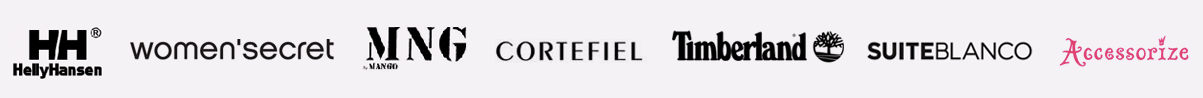
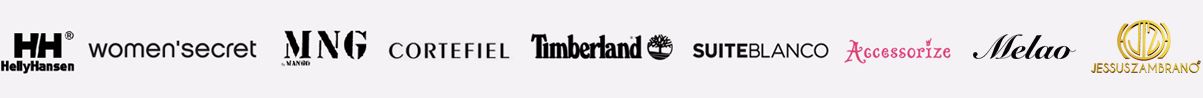
Agregada nuevas marcas a como funciona

Changed region(s): [[0.0, 0.2143, 1.0, 0.7959]]

diff --git a/protected/views/site/comofunciona.php b/protected/views/site/comofunciona.php
@@ -34,7 +34,7 @@ Yii::app()->clientScript->registerMetaTag('Personaling, Mango, Timberland, perso
 	<section class="seccion2">
 		<div class="container"><h1>MARCAS RECONOCIDAS</h1>
 			<p>¡Tus marcas preferidas en un solo lugar! ¡Con tan solo un click en tu casa u oficina!</p>
-			<img src="<?php echo Yii::app()->theme->baseUrl; ?>/images/como_brands2.png" alt="Bimba y lola, Mango, Accesorize ">
+			<img src="<?php echo Yii::app()->theme->baseUrl; ?>/images/como_brands.png" alt="Bimba y lola, Mango, Accesorize , Cortefiel, HellyHansen, Women'secret, SuiteBlanco, Melao, Jessus Zambrano">
 
 		</div>
 	</section>
